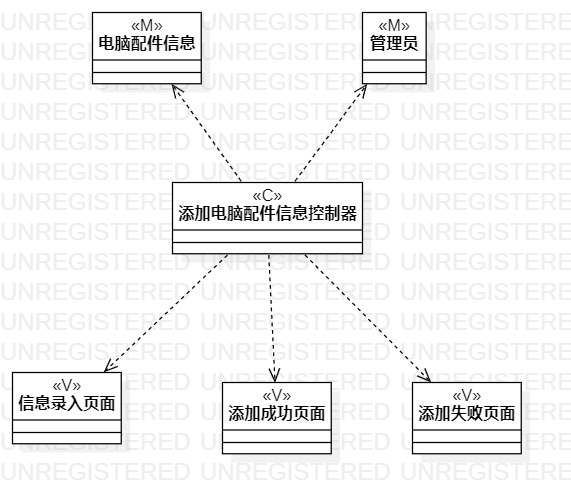
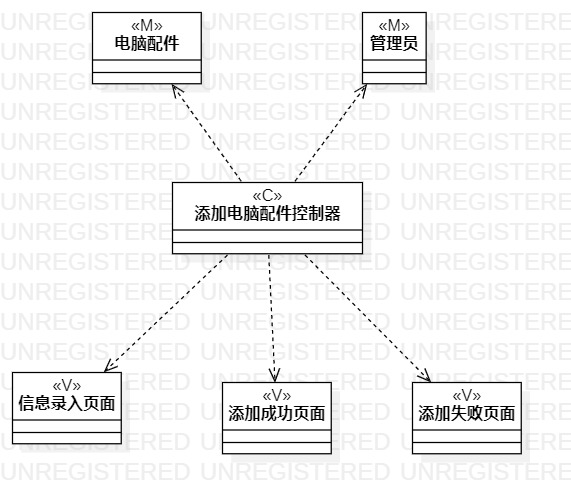
#4 #5 #474 实验四五

Changed region(s): [[0.2977, 0.3877, 0.6252, 0.4473], [0.1786, 0.0596, 0.3573, 0.1193]]

diff --git a/students/1714080902528/lab4.md b/students/1714080902528/lab4.md
@@ -15,9 +15,9 @@
 
 ## 三、实验步骤
 - 根据用例规约找出分别找出实体，界面，控制器
-- 实体有电脑配件信息，用户和管理员
+- 实体有电脑配件，用户和管理员
 - 界面有信息录入页面，显示结果页面
-- 控制器有添加电脑配件信息控制器和查看电脑配件信息控制器
+- 控制器有添加电脑配件控制器和查看电脑配件控制器
 - 新建类图，分别添加实体类，界面类和控制器类
 - 使用Dependency连接类
 
